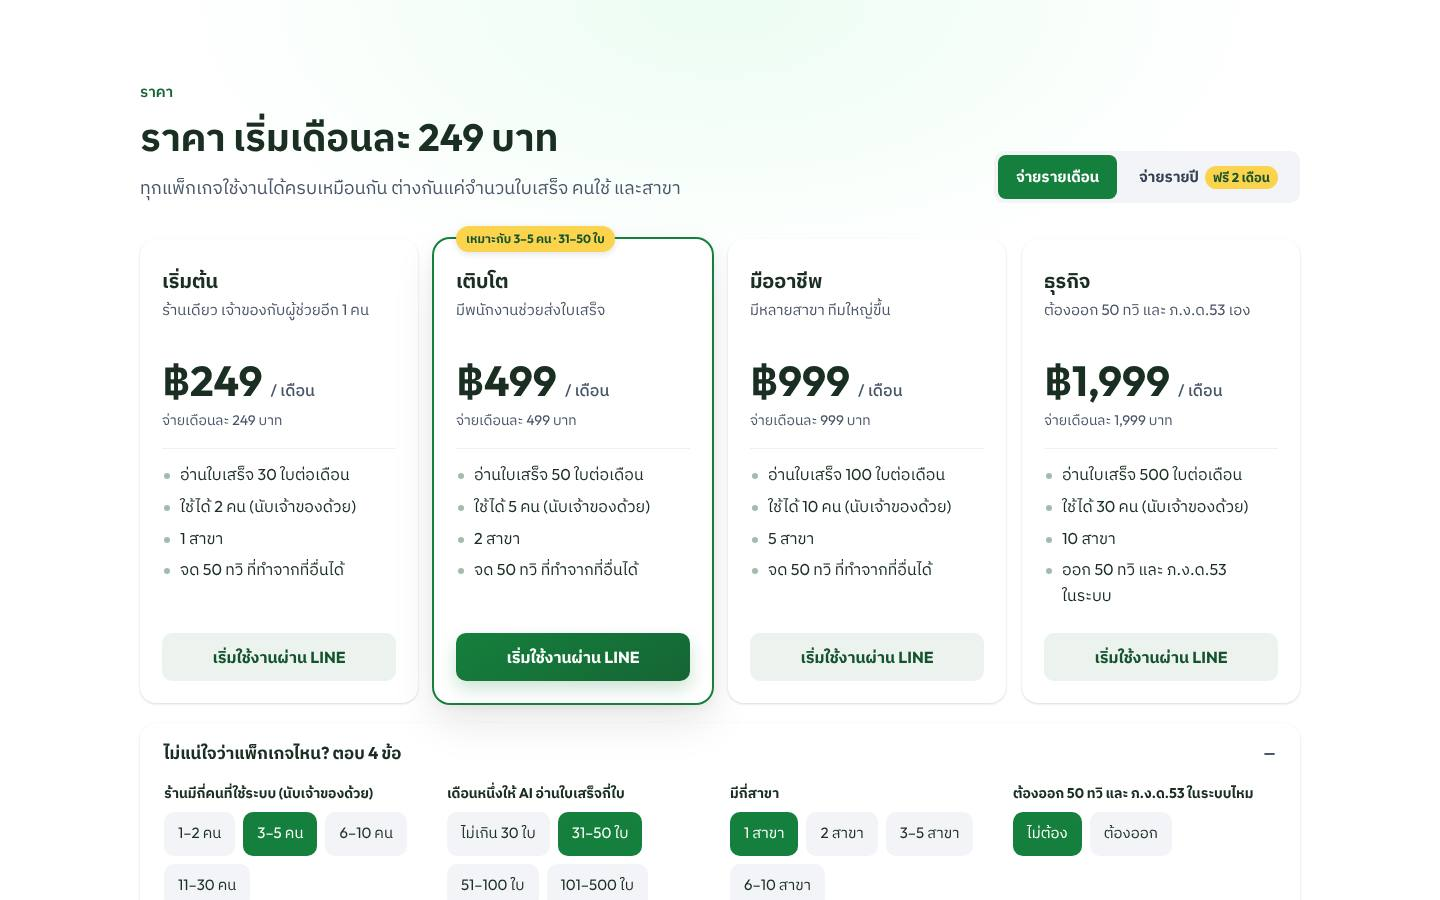
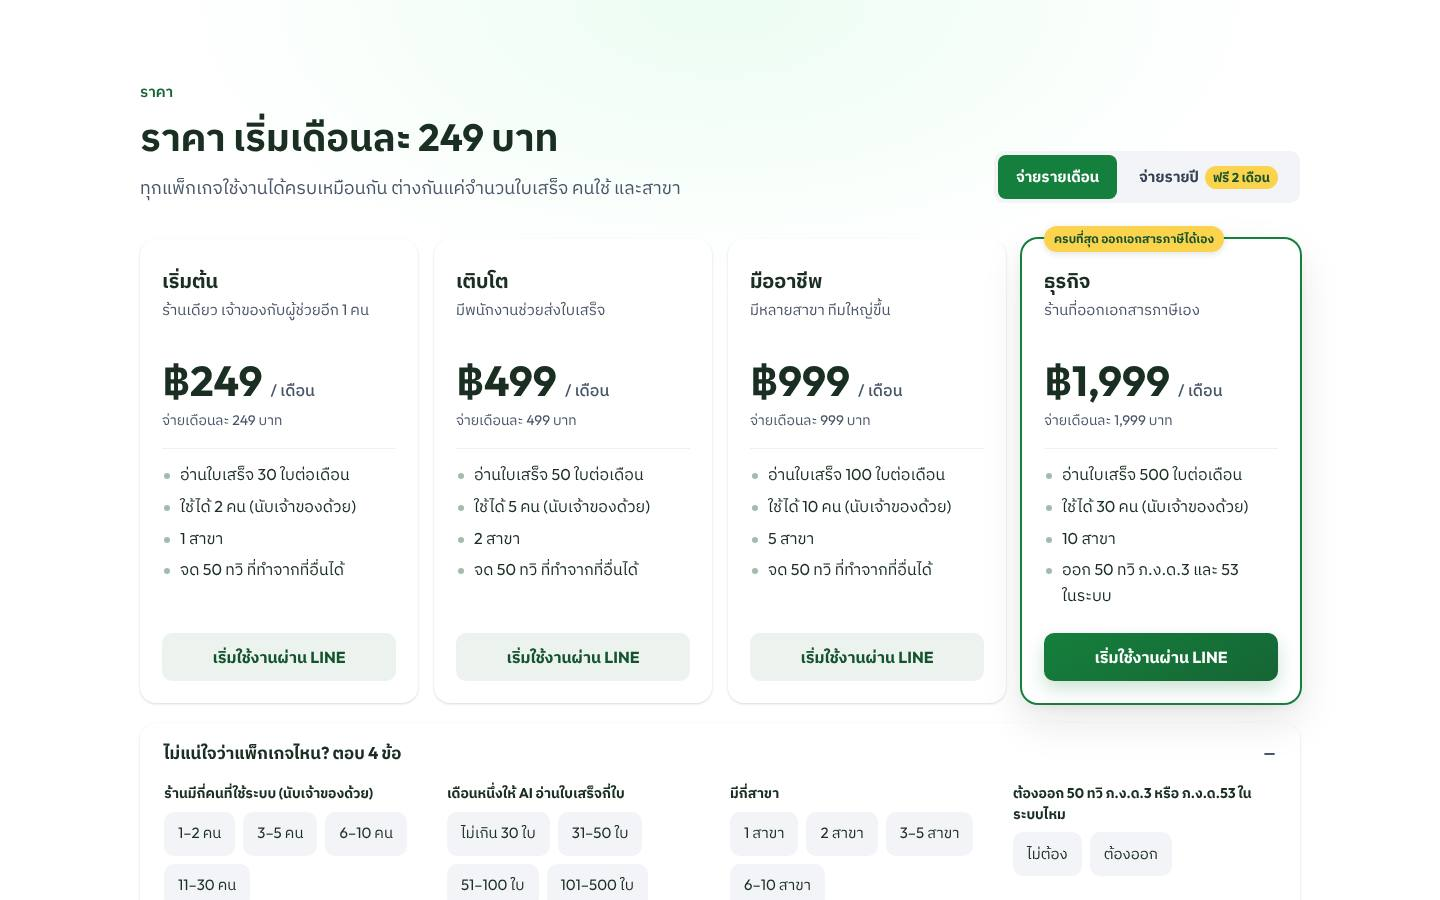
docs: v3 sales copy leads with time saved and the money-hole pain, opens shops free and features ENTERPRISE
Hero now says ไม่ต้องจดเอง ทำได้ทุกที่ with less space above it, the
3 steps open with ขายได้ทุกวัน แต่จ่ายไปเท่าไรไม่รู้?, and เปิดร้านฟรี
replaces the no-free-trial line. The 1,999 plan is featured until the
buyer answers the chooser, ภ.ง.ด.3 joins ภ.ง.ด.53 (wht_pnd53 covers
both in code), and น้องมั่งมี shows six real questions from the eval
corpus.

Claude-Session: https://claude.ai/code/session_01J7ScAcuHmAWY52w61WzGcF

diff --git a/docs/prototypes/mangmee-main-website/v3/content-th.md b/docs/prototypes/mangmee-main-website/v3/content-th.md
@@ -310,14 +310,14 @@ H2  เริ่มจากใบเสร็จใบต่อไป
 ### 1.4 คำถามที่พบบ่อย (ข้อความเต็ม ใช้ทั้งบนหน้าและใน FAQPage)
 
 1. **มั่งมีพลัสคืออะไร?** โปรแกรมช่วยร้านและธุรกิจเล็กในไทยเก็บใบเสร็จและค่าใช้จ่าย ส่งรูปใบเสร็จให้น้องมั่งมีใน LINE อ่านและกรอกรายการให้ แล้วคนตรวจและกดยืนยัน ดูแลโดย บริษัท มั่งมียั่งยืน จำกัด
-2. **น้องมั่งมีคือใคร ทำอะไรได้บ้าง?** น้องมั่งมีคือผู้ช่วย AI ในแชต LINE ของมั่งมีพลัส อ่านรูปใบเสร็จหรือ PDF แล้วกรอกรายการให้ แก้รายการในแชตได้ พิมพ์ “ค่าน้ำมัน 500” น้องก็กรอกให้ และตอบยอดค่าใช้จ่ายตามสิทธิ์ของคนที่ถาม คุยได้ 80 เครดิตต่อเดือน
+2. **น้องมั่งมีคือใคร ทำอะไรได้บ้าง?** น้องมั่งมีคือผู้ช่วย AI ในแชต LINE ของมั่งมีพลัส อ่านรูปใบเสร็จหรือ PDF แล้วกรอกรายการให้ แก้รายการในแชตได้ พิมพ์ “ค่าน้ำมัน 500” น้องก็กรอกให้ และตอบตามสิทธิ์ของคนที่ถาม เช่น “เดือนนี้จ่ายไปเท่าไหร่แล้ว” “จ่ายร้านไหนเยอะสุด” “มีใบเบิกรออนุมัติไหม” คุยได้ 80 เครดิตต่อเดือน
 3. **เริ่มใช้ต้องทำอะไรบ้าง?** กด “เริ่มใช้งานผ่าน LINE” แล้วเพิ่มเพื่อน กด “เปิดร้านใหม่” ใส่ชื่อร้านกับเบอร์มือถือ พอเปิดร้านแล้ว เลือกแพ็กเกจ จ่ายด้วยบัตรหรือพร้อมเพย์ แล้วส่งใบเสร็จได้เลย
-4. **ราคาเท่าไร ลองใช้ฟรีได้ไหม?** มี 4 แพ็กเกจ เดือนละ 249, 499, 999 และ 1,999 บาท ถ้าจ่ายรายปีจ่ายเท่ากับ 10 เดือน ตอนนี้ไม่มีให้ลองใช้ฟรี แต่สมัครไม่ต้องใส่บัตร
+4. **ราคาเท่าไร เปิดร้านเสียเงินไหม?** เปิดร้านฟรี ไม่ต้องใส่บัตร แล้วเลือกแพ็กเกจเพื่อเริ่มใช้งาน มี 4 แพ็กเกจ เดือนละ 249, 499, 999 และ 1,999 บาท ถ้าจ่ายรายปีจ่ายเท่ากับ 10 เดือน ก่อนเลือกแพ็กเกจ ยังส่งใบเสร็จให้น้องมั่งมีอ่านไม่ได้
 5. **นับใบเสร็จในแพ็กเกจยังไง?** ทุกรูปหรือไฟล์ที่ให้ AI อ่าน นับ 1 ใบ ทั้งจาก LINE และเว็บ รวมรูปลายเซ็นด้วย ถ้า AI อ่านไม่ออกไม่นับ และพิมพ์บอกรายจ่ายเองไม่นับ
 6. **AI อ่านใบเสร็จผิดได้ไหม?** ได้ โดยเฉพาะรูปเบลอ ใบเสร็จยับ หรือเขียนด้วยลายมือ รายการที่น้องมั่งมีกรอกจึงเป็นร่าง รอคุณตรวจก่อน คุณดูรูปจริง แก้ตรงที่ผิด แล้วค่อยกดยืนยัน
 7. **ใช้แทนนักบัญชีได้ไหม?** ไม่ได้ มั่งมีพลัสช่วยเก็บและกรอกข้อมูลค่าใช้จ่าย ส่วนการทำบัญชีและยื่นภาษียังเป็นงานของร้านและนักบัญชี
 8. **พนักงานเบิกเงินคืนยังไง?** พนักงานส่งใบเบิกพร้อมใบเสร็จ คนที่มีสิทธิ์กดอนุมัติ ร้านจ่ายเงินคืนเองแล้วบันทึกในระบบ จากนั้นพนักงานเซ็นรับในระบบหรือบนกระดาษ ระบบไม่ได้โอนเงินให้
-9. **ออก 50 ทวิ และ ภ.ง.ด.53 ได้ไหม?** แพ็กเกจธุรกิจออกหนังสือรับรองหัก ณ ที่จ่าย (50 ทวิ) และเตรียมแบบ ภ.ง.ด.53 พร้อมใบแนบไว้พิมพ์ได้ในระบบ ร้านยื่นเอง แพ็กเกจอื่นจด 50 ทวิ ที่ทำจากที่อื่นได้ ใส่เลขที่ และแนบรูปหรือ PDF ได้
+9. **ออก 50 ทวิ ภ.ง.ด.3 และ ภ.ง.ด.53 ได้ไหม?** แพ็กเกจธุรกิจออกหนังสือรับรองหัก ณ ที่จ่าย (50 ทวิ) และเตรียมแบบ ภ.ง.ด.3 (จ่ายให้บุคคล) กับ ภ.ง.ด.53 (จ่ายให้บริษัท) พร้อมใบแนบไว้พิมพ์ได้ในระบบ ร้านยื่นเอง แพ็กเกจอื่นจด 50 ทวิ ที่ทำจากที่อื่นได้ ใส่เลขที่ และแนบรูปหรือ PDF ได้
 10. **จ่ายรายปีต่างจากรายเดือนยังไง?** รายปีจ่ายครั้งเดียว เท่ากับราคา 10 เดือน ได้ใบเสร็จเท่ากับ 12 เดือนมาเป็นก้อนเดียว ใช้ได้ทั้งปี ไม่ได้เติมให้ทุกเดือน
 11. **ดูยอดค่าใช้จ่ายย้อนหลังได้ไหม?** ได้ หน้าสรุปยอดดูได้ทั้งวันนี้ สัปดาห์นี้ เดือนนี้ ไตรมาสนี้ หรือเลือกช่วงวันเอง และถามน้องมั่งมีในแชตก็ได้
 12. **ข้อมูลของร้านใครเห็นบ้าง?** เจ้าของร้านกำหนดหน้าที่ให้พนักงานแต่ละคน ทั้งบนเว็บและในแชตกับน้องมั่งมี แต่ละคนเห็นเฉพาะข้อมูลที่ได้รับสิทธิ์ อ่านเพิ่มได้ในนโยบายความเป็นส่วนตัว
@@ -537,7 +537,7 @@ H2  เริ่มจากใบเสร็จใบต่อไป
           "name": "น้องมั่งมีคือใคร ทำอะไรได้บ้าง?",
           "acceptedAnswer": {
             "@type": "Answer",
-            "text": "น้องมั่งมีคือผู้ช่วย AI ในแชต LINE ของมั่งมีพลัส อ่านรูปใบเสร็จหรือ PDF แล้วกรอกรายการให้ แก้รายการในแชตได้ พิมพ์ “ค่าน้ำมัน 500” น้องก็กรอกให้ และตอบยอดค่าใช้จ่ายตามสิทธิ์ของคนที่ถาม คุยได้ 80 เครดิตต่อเดือน"
+            "text": "น้องมั่งมีคือผู้ช่วย AI ในแชต LINE ของมั่งมีพลัส อ่านรูปใบเสร็จหรือ PDF แล้วกรอกรายการให้ แก้รายการในแชตได้ พิมพ์ “ค่าน้ำมัน 500” น้องก็กรอกให้ และตอบตามสิทธิ์ของคนที่ถาม เช่น “เดือนนี้จ่ายไปเท่าไหร่แล้ว” “จ่ายร้านไหนเยอะสุด” “มีใบเบิกรออนุมัติไหม” คุยได้ 80 เครดิตต่อเดือน"
           }
         },
         {
@@ -550,10 +550,10 @@ H2  เริ่มจากใบเสร็จใบต่อไป
         },
         {
           "@type": "Question",
-          "name": "ราคาเท่าไร ลองใช้ฟรีได้ไหม?",
+          "name": "ราคาเท่าไร เปิดร้านเสียเงินไหม?",
           "acceptedAnswer": {
             "@type": "Answer",
-            "text": "มี 4 แพ็กเกจ เดือนละ 249, 499, 999 และ 1,999 บาท ถ้าจ่ายรายปีจ่ายเท่ากับ 10 เดือน ตอนนี้ไม่มีให้ลองใช้ฟรี แต่สมัครไม่ต้องใส่บัตร"
+            "text": "เปิดร้านฟรี ไม่ต้องใส่บัตร แล้วเลือกแพ็กเกจเพื่อเริ่มใช้งาน มี 4 แพ็กเกจ เดือนละ 249, 499, 999 และ 1,999 บาท ถ้าจ่ายรายปีจ่ายเท่ากับ 10 เดือน ก่อนเลือกแพ็กเกจ ยังส่งใบเสร็จให้น้องมั่งมีอ่านไม่ได้"
           }
         },
         {
@@ -590,10 +590,10 @@ H2  เริ่มจากใบเสร็จใบต่อไป
         },
         {
           "@type": "Question",
-          "name": "ออก 50 ทวิ และ ภ.ง.ด.53 ได้ไหม?",
+          "name": "ออก 50 ทวิ ภ.ง.ด.3 และ ภ.ง.ด.53 ได้ไหม?",
           "acceptedAnswer": {
             "@type": "Answer",
-            "text": "แพ็กเกจธุรกิจออกหนังสือรับรองหัก ณ ที่จ่าย (50 ทวิ) และเตรียมแบบ ภ.ง.ด.53 พร้อมใบแนบไว้พิมพ์ได้ในระบบ ร้านยื่นเอง แพ็กเกจอื่นจด 50 ทวิ ที่ทำจากที่อื่นได้ ใส่เลขที่ และแนบรูปหรือ PDF ได้"
+            "text": "แพ็กเกจธุรกิจออกหนังสือรับรองหัก ณ ที่จ่าย (50 ทวิ) และเตรียมแบบ ภ.ง.ด.3 (จ่ายให้บุคคล) กับ ภ.ง.ด.53 (จ่ายให้บริษัท) พร้อมใบแนบไว้พิมพ์ได้ในระบบ ร้านยื่นเอง แพ็กเกจอื่นจด 50 ทวิ ที่ทำจากที่อื่นได้ ใส่เลขที่ และแนบรูปหรือ PDF ได้"
           }
         },
         {
